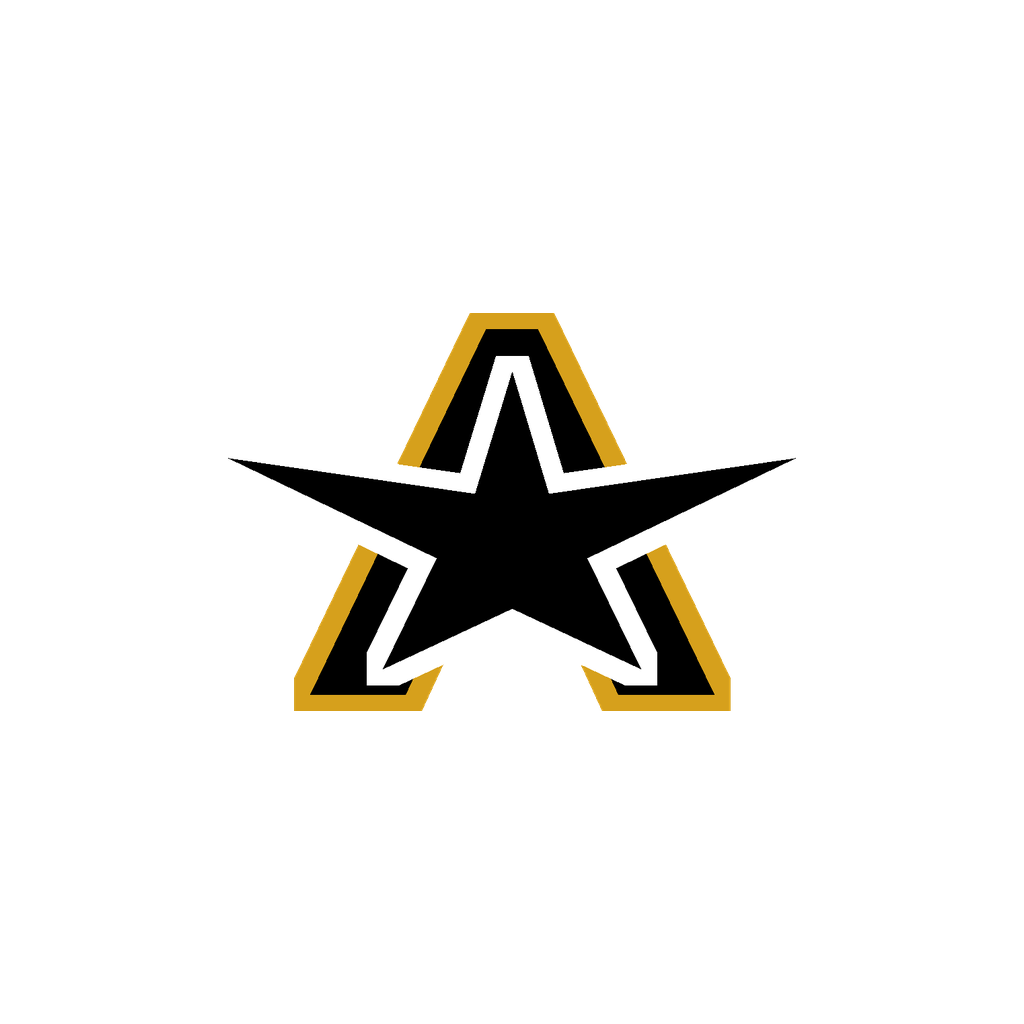
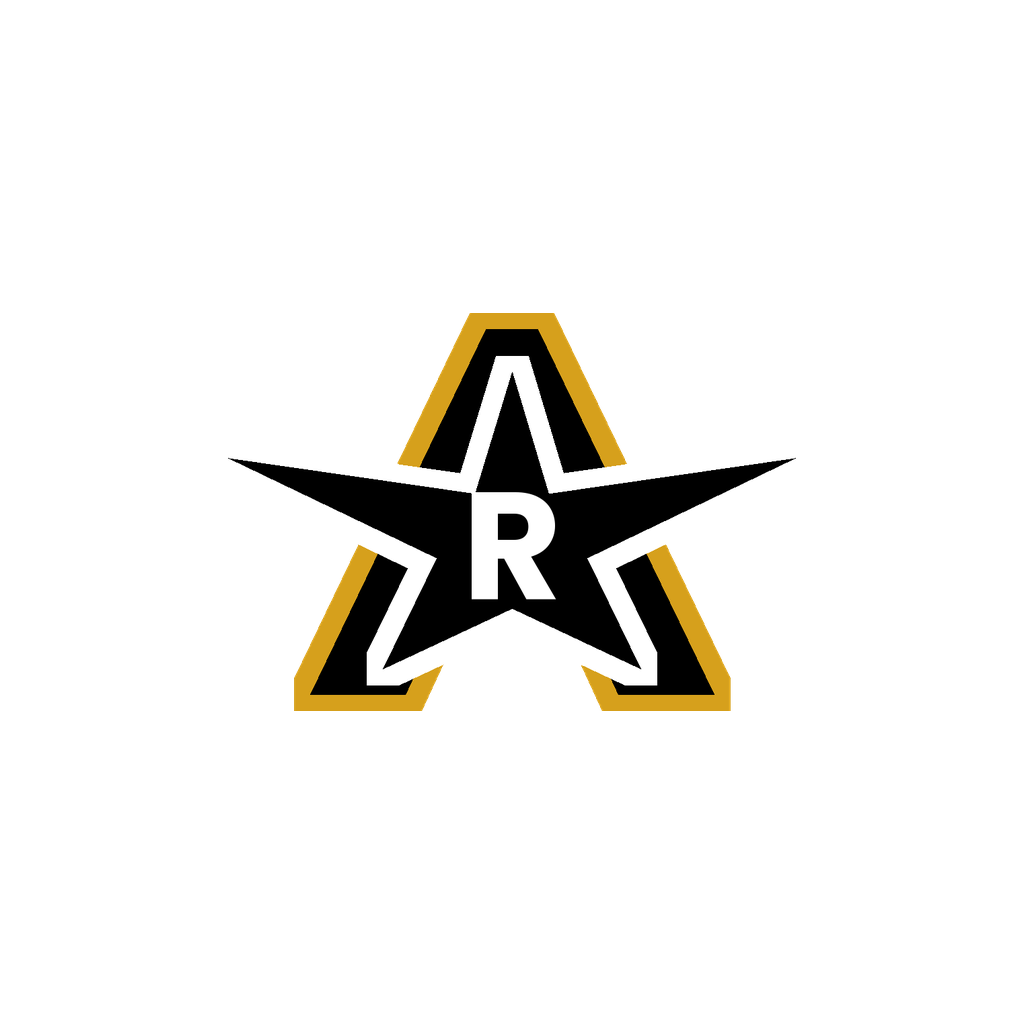
Ícone do app: pequeno R branco dentro do A (só no ícone)
Claude-Session: https://claude.ai/code/session_01XJ8bKMNESezMEnN3MgmYe2

Changed region(s): [[0.4375, 0.4688, 0.5625, 0.5938]]

diff --git a/tools/icone.py b/tools/icone.py
@@ -5,6 +5,14 @@ spec=importlib.util.spec_from_file_location('wm', '/tmp/wm/wm2.py')
 src=open('/tmp/wm/wm2.py').read().split('\nmake(')[0]   # só as funções, sem gerar a marca
 ns={}; exec(src, ns)
 sym=ns['letterA']((0,0,0,255),None,False)
+# pequeno R branco no centro da estrela, dentro do A
+from PIL import ImageFont
+F=ns['font']; h=ImageDraw.Draw(Image.new('RGBA',(5,5))).textbbox((0,0),'E',font=F); h=h[3]-h[1]
+rf=ImageFont.truetype('/usr/share/fonts/truetype/google-fonts/Poppins-Bold.ttf', int(F.size*0.30))
+d=ImageDraw.Draw(sym)
+cx=sym.width/2; cy=ns['TOP']+0.585*h
+b=d.textbbox((0,0),'R',font=rf)
+d.text((cx-(b[0]+b[2])/2, cy-(b[1]+b[3])/2),'R',font=rf,fill=(255,255,255,255))
 bb=sym.getbbox(); sym=sym.crop(bb)
 def fit(img, box):
     r=min(box/img.width, box/img.height)
